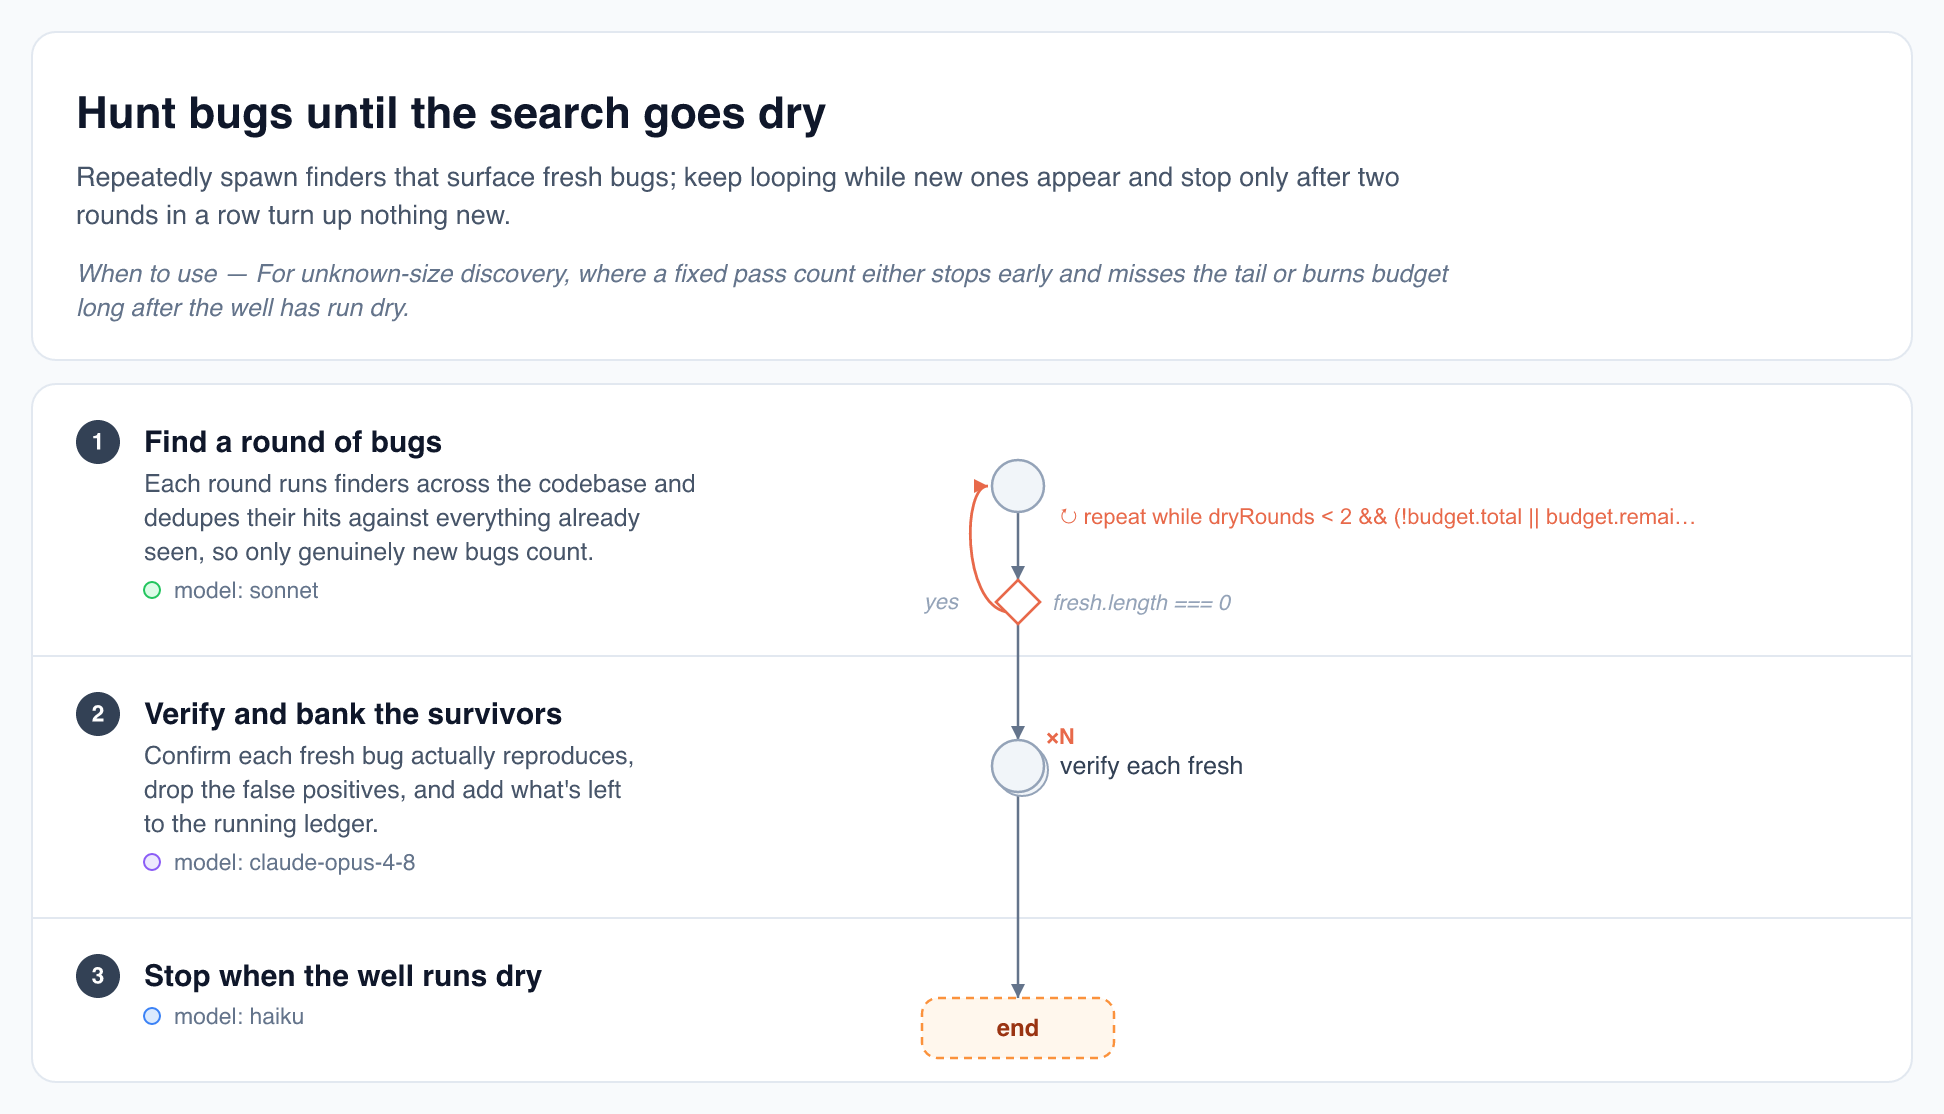
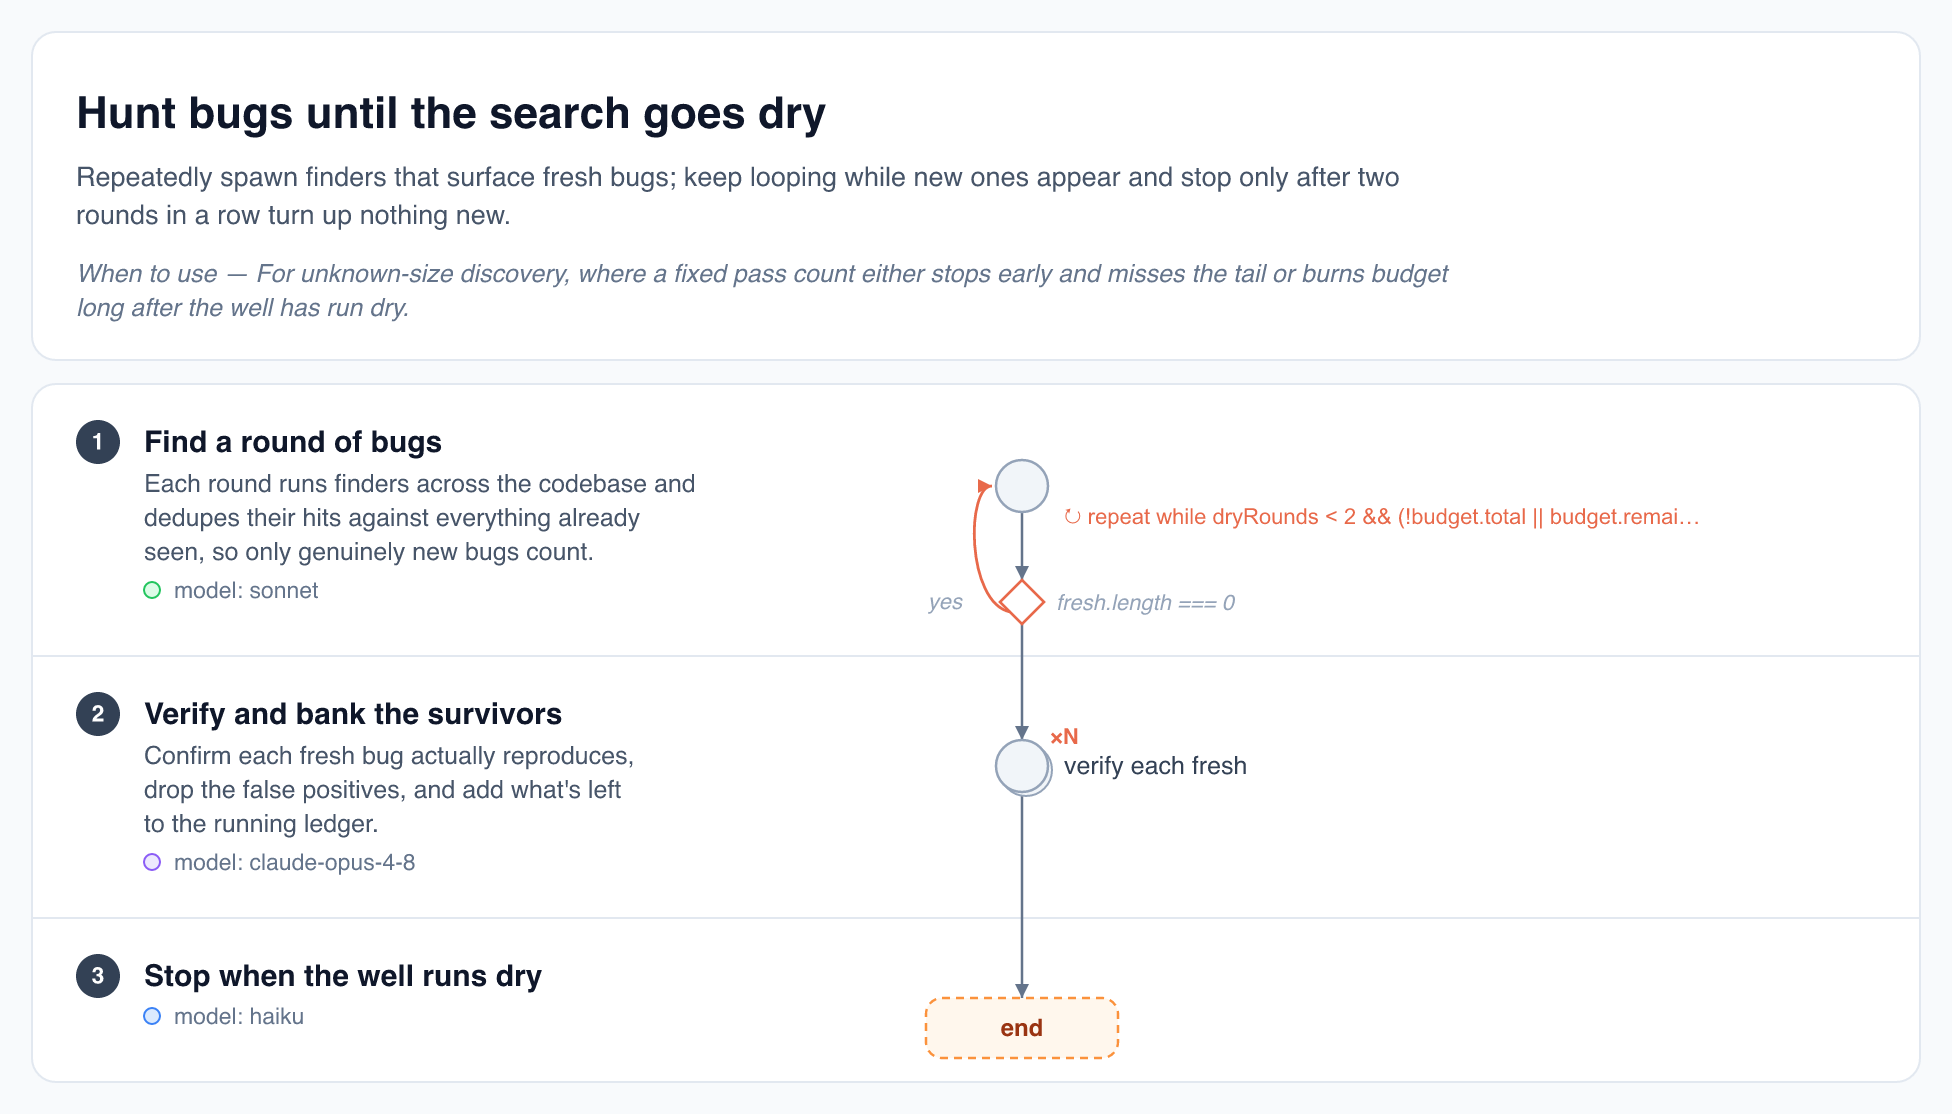
fix(render): include label halos in graph content bounds
Loop badges, control-arc outcome labels, and decision labels render via
knockoutText (a LABEL_HALO_W stroke halo), but graphContentBounds measured only
their plain-text width, so the halo could overhang the page edge — node labels
already padded +/-LABEL_HALO_W/2. Pad the three remaining label kinds to match
(right edge for decision/loop, left for the right-anchored arc outcome).

Only labels at the extreme edge move bounds: the tournament snapshot grows +2px
and hunt-bugs re-renders; the other 11 examples are byte-identical.

Flagged by CodeRabbit on #4.

diff --git a/ts/render-topology.ts b/ts/render-topology.ts
@@ -432,7 +432,7 @@ function graphContentBounds(
     }
     if (n.kind === "decision") {
       ext(n.x - n.r, n.x + n.r);
-      ext(n.x, n.x + n.r + 6 + estTextW(truncatePlain(n.label, 36), MEMBER_FONT));
+      ext(n.x, n.x + n.r + 6 + estTextW(truncatePlain(n.label, 36), MEMBER_FONT) + LABEL_HALO_W / 2);
       continue;
     }
     // agent / hub — the circle, plus the ×N peek circle + badge and the label.
@@ -463,7 +463,7 @@ function graphContentBounds(
     if (!node) continue;
     const lx = node.x + node.r + 8;
     const w = estTextW(truncateToWidth(`↻ ${l.label}`, gw - MARGIN - lx, LOOP_FONT), LOOP_FONT);
-    ext(lx, lx + w);
+    ext(lx - LABEL_HALO_W / 2, lx + w + LABEL_HALO_W / 2);
   }
   // A continue arc bows left of its gate, its outcome label further left still.
   // Mirror renderControlArc: a self-loop reaches its ↺ circle's left edge (cx − r);
@@ -474,7 +474,7 @@ function graphContentBounds(
     const r = from.r + 2;
     const leftmost =
       a.fromId === a.toId ? from.x - from.r - r * 0.45 - r : from.x - from.r - ARC_BULGE;
-    ext(leftmost - 4 - estTextW(a.outcome, MEMBER_FONT), from.x);
+    ext(leftmost - 4 - estTextW(a.outcome, MEMBER_FONT) - LABEL_HALO_W / 2, from.x);
   }
   if (!Number.isFinite(minX) || !Number.isFinite(maxX)) return { minX: 0, maxX: gw };
   return { minX, maxX };
